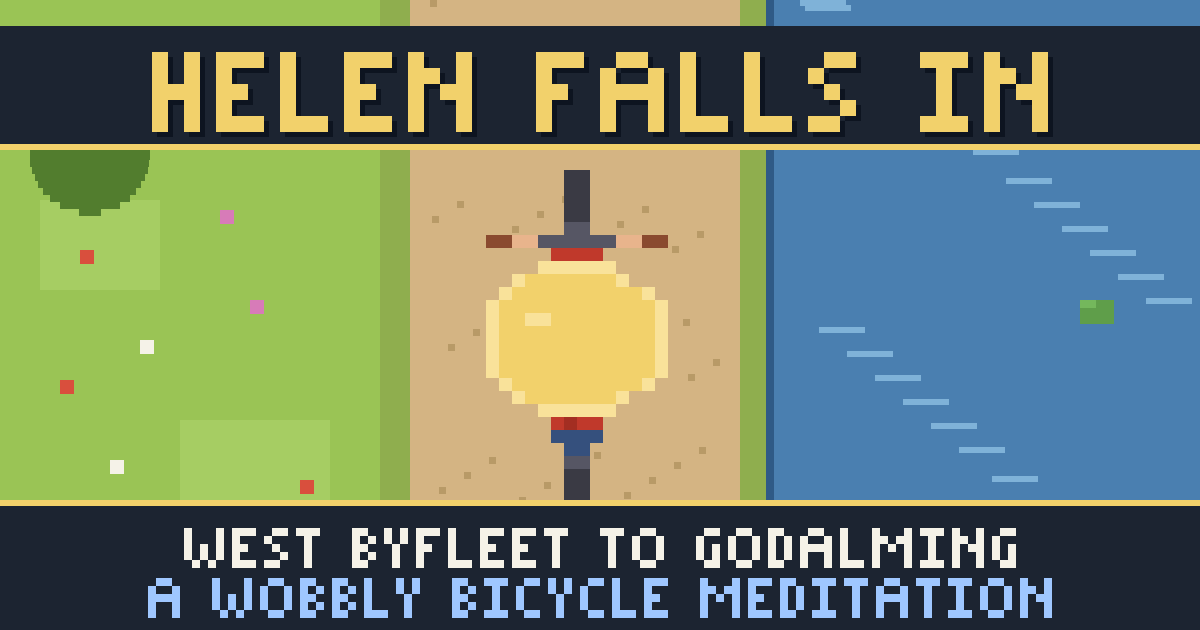
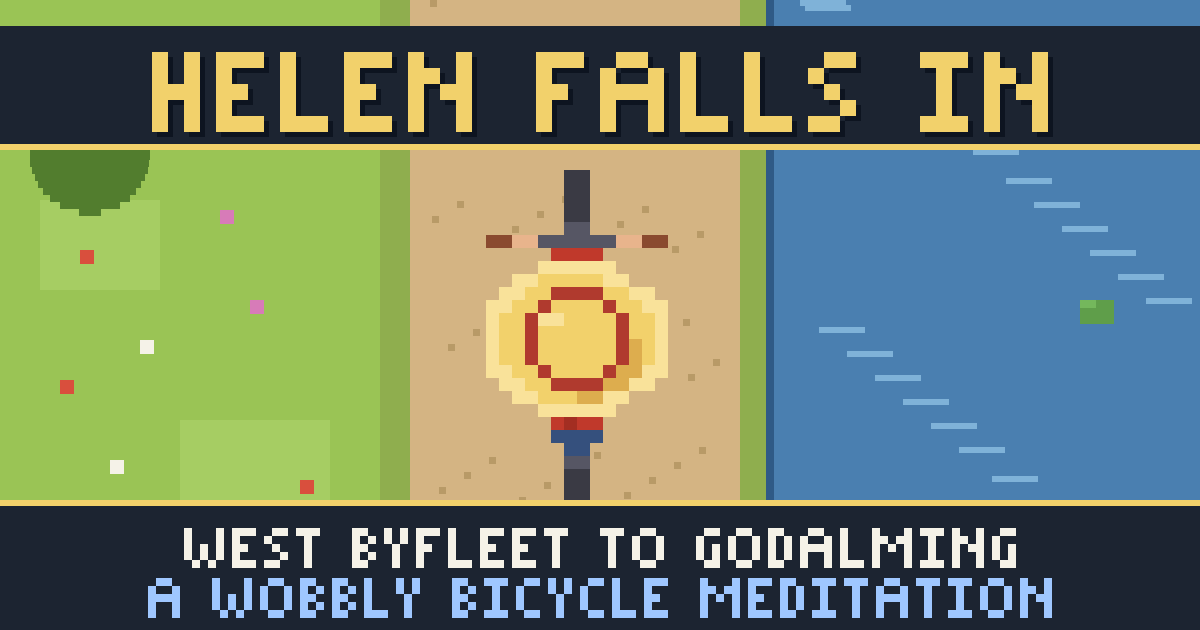
A sunhat that reads as a sunhat; one chunk build per frame
Top-down the hat was a plain yellow disc. Now: light brim edge, red
ribbon ring where the crown rises, crown shadow on the sun-away side —
in-game, in the falling cutscene, and across the generated art.

Profiled on Android: the chunk builder could run two 3-11ms builds in a
single frame and blow the 60fps budget. Off-screen prefetch now builds
at most one chunk per frame; on-screen chunks still build unconditionally
so holes can never appear.

Changed region(s): [[0.4008, 0.4222, 0.555, 0.6635]]

diff --git a/src/render.ts b/src/render.ts
@@ -65,7 +65,8 @@ const PAL = {
 };
 
 // Helen, top-down, on a bike that reads as a bike: thin wheels, a visible
-// frame, wide handlebars — and a round sunhat (slightly smaller these days).
+// frame, wide handlebars — and a round sunhat: light brim edge, red ribbon
+// ring where the crown rises, crown shadow on the brim's sun-away side.
 const HELEN_PX: Record<string, number> = {
   T: 0x3a3a44, // tyre
   H: 0x565664, // frame metal
@@ -73,8 +74,10 @@ const HELEN_PX: Record<string, number> = {
   s: 0xe8b48c, // skin
   r: 0xc0392b, // red top
   R: 0xa32e22, // red top, shaded
-  y: 0xf2d16b, // sunhat crown
-  Y: 0xf9e29a, // sunhat brim/highlight
+  y: 0xf2d16b, // sunhat straw
+  Y: 0xf9e29a, // sunhat brim edge / sun-catch
+  u: 0xddad4e, // sunhat straw in shade (crown shadow on the brim)
+  n: 0xb03a2e, // hatband ribbon
   b: 0x35507d, // shorts
 };
 // Authored at final resolution (1px cells, drawn at scale 1) — rotating chunky
@@ -88,16 +91,16 @@ const HELEN_MAP = [
   '..BBssHHHHHHssBB..',
   '.......rrrr.......',
   '......YYYYYY......',
-  '....YyyyyyyyY....'.padEnd(18, '.'),
-  '...YyyyyyyyyyyY...',
-  '..YyyyyyyyyyyyyY..',
-  '..YyyYYyyyyyyyyY..',
-  '..YyyyyyyyyyyyyY..',
-  '..YyyyyyyyyyyyyY..',
-  '..YyyyyyyyyyyyyY..',
-  '..YyyyyyyyyyyyyY..',
-  '...YyyyyyyyyyyY...',
-  '....YyyyyyyyY....'.padEnd(18, '.'),
+  '....YYyyyyyYY.....',
+  '...YYyynnnnyyYY...',
+  '..YYyynyyyynyyYY..',
+  '..YyynYYyyyynyyY..',
+  '..YyynyyyyyynyyY..',
+  '..YyynyyyyyynuyY..',
+  '..YyynyyyyyynuyY..',
+  '..YYyynyyyynuuYY..',
+  '...YYyynnnnuuYY...',
+  '....YYyyyuuYY.....',
   '......YYYYYY......',
   '.......rRrr.......',
   '.......bbbb.......',
@@ -123,7 +126,7 @@ function paintSprite(g: Graphics, map: string[], px: Record<string, number>, ox:
 }
 
 // the sunhat chars — their own layer, so aftermath tinting never touches the hat
-const HAT_CHARS = new Set(['y', 'Y']);
+const HAT_CHARS = new Set(['y', 'Y', 'u', 'n']);
 const HELEN_BODY_PX = Object.fromEntries(Object.entries(HELEN_PX).filter(([k]) => !HAT_CHARS.has(k)));
 const HELEN_HAT_PX = Object.fromEntries(Object.entries(HELEN_PX).filter(([k]) => HAT_CHARS.has(k)));
 
@@ -1375,6 +1378,8 @@ export async function createRenderer(mount: HTMLElement): Promise<Renderer> {
     const hatY = Math.min(viewH - 26, by + 60 + e * 30);
     screenG.rect(cx + 26, hatY, 30, 3).fill(0xf9e29a);
     screenG.rect(cx + 32, hatY - 5, 18, 5).fill(0xf2d16b);
+    screenG.rect(cx + 34, hatY - 7, 14, 2).fill(0xf2d16b);
+    screenG.rect(cx + 32, hatY - 2, 18, 2).fill(0xb03a2e);
     for (let k = 0; k < 5; k++) {
       const ly = (e * 16 + k * 37) % (viewH + 10);
       const lx = cx - 50 + k * 24 + Math.sin(e * 1.2 + k * 2) * 8;
@@ -1432,6 +1437,8 @@ export async function createRenderer(mount: HTMLElement): Promise<Renderer> {
     }
   }
 
+  const pf = { frames: 0, slow: 0, builds: 0, worst: 0, worstBuild: 0, worstDyn: 0, lastLog: 0 };
+
   function draw(
     prev: SimState,
     curr: SimState,
@@ -1466,15 +1473,20 @@ export async function createRenderer(mount: HTMLElement): Promise<Renderer> {
     helenWX = hp.x;
     helenWY = hp.y;
 
-    // ensure chunks around the camera exist (path distance window), building at
-    // most a couple per frame so scrolling never hitches on a build burst
+    // ensure chunks around the camera exist (path distance window). On-screen
+    // chunks build unconditionally (a hole is worse than a hitch); the ahead/
+    // behind prefetch ring builds at most ONE per frame — a single build is
+    // ~3-11ms on a phone-class CPU, so two in one frame blows the 60fps budget.
     const loIdx = Math.floor((d - 460) / CHUNK_PX);
     const hiIdx = Math.floor((d + 520) / CHUNK_PX);
+    const visLoIdx = Math.floor((d - 210) / CHUNK_PX);
+    const visHiIdx = Math.floor((d + 160) / CHUNK_PX);
     const nearIdx = Math.floor(d / CHUNK_PX);
     let built = 0;
     for (let span = 0; span <= Math.max(nearIdx - loIdx, hiIdx - nearIdx); span++) {
       for (const idx of span === 0 ? [nearIdx] : [nearIdx + span, nearIdx - span]) {
-        if (idx < loIdx || idx > hiIdx || chunks.has(idx) || built >= 2) continue;
+        if (idx < loIdx || idx > hiIdx || chunks.has(idx)) continue;
+        if (built >= 1 && (idx < visLoIdx || idx > visHiIdx)) continue;
         const g = buildChunk(idx, p, path);
         chunks.set(idx, g);
         worldLayer.addChildAt(g, 0);
@@ -1541,6 +1553,7 @@ export async function createRenderer(mount: HTMLElement): Promise<Renderer> {
     } else {
       bike.tint = 0xffffff;
     }
+
   }
 
   return { app, draw };

diff --git a/scripts/genart.ts b/scripts/genart.ts
@@ -104,6 +104,8 @@ const SPRITE_PX: Record<string, RGB> = {
   R: hex(0xa32e22),
   y: hex(0xf2d16b),
   Y: hex(0xf9e29a),
+  u: hex(0xddad4e),
+  n: hex(0xb03a2e),
   b: hex(0x35507d),
 };
 const HELEN_MAP = [
@@ -115,16 +117,16 @@ const HELEN_MAP = [
   '..BBssHHHHHHssBB..',
   '.......rrrr.......',
   '......YYYYYY......',
-  '....YyyyyyyyY.....',
-  '...YyyyyyyyyyyY...',
-  '..YyyyyyyyyyyyyY..',
-  '..YyyYYyyyyyyyyY..',
-  '..YyyyyyyyyyyyyY..',
-  '..YyyyyyyyyyyyyY..',
-  '..YyyyyyyyyyyyyY..',
-  '..YyyyyyyyyyyyyY..',
-  '...YyyyyyyyyyyY...',
-  '....YyyyyyyyY.....',
+  '....YYyyyyyYY.....',
+  '...YYyynnnnyyYY...',
+  '..YYyynyyyynyyYY..',
+  '..YyynYYyyyynyyY..',
+  '..YyynyyyyyynyyY..',
+  '..YyynyyyyyynuyY..',
+  '..YyynyyyyyynuyY..',
+  '..YYyynyyyynuuYY..',
+  '...YYyynnnnuuYY...',
+  '....YYyyyuuYY.....',
   '......YYYYYY......',
   '.......rRrr.......',
   '.......bbbb.......',
@@ -325,8 +327,82 @@ function writeOgImage(path: string): void {
   writePng(path, 1200, 630, img.data);
 }
 
+// ---- Capacitor launcher-icon sources (assets/, consumed by @capacitor/assets) ----
+// Android adaptive icons mask to a centre region ~66% of the canvas; keep the
+// hat inside that safe zone, with water filling the bleed.
+function writeAdaptiveForeground(path: string, size: number): void {
+  const grid = iconGrid();
+  const img = new Img(size, size, P.water);
+  const inset = Math.round(size * 0.2);
+  const inner = size - inset * 2;
+  for (let y = 0; y < inner; y++) {
+    for (let x = 0; x < inner; x++) {
+      img.px(inset + x, inset + y, grid[Math.floor((y * 16) / inner)]![Math.floor((x * 16) / inner)]!);
+    }
+  }
+  writePng(path, size, size, img.data);
+}
+
 mkdirSync('public', { recursive: true });
 writeIconSvg('public/favicon.svg');
 writeIconPng('public/favicon-64.png', 64);
 writeIconPng('public/apple-touch-icon.png', 180);
 writeOgImage('public/og.png');
+
+// Play Store listing: 1024×500 feature graphic — the og scene, squeezed.
+function writeFeatureGraphic(path: string): void {
+  const img = new Img(1024, 500, P.verge);
+  img.rect(0, 0, 360, 500, P.verge);
+  img.rect(330, 0, 26, 500, P.fringe);
+  img.rect(356, 0, 290, 500, P.sand);
+  img.rect(646, 0, 22, 500, P.fringe);
+  img.rect(668, 0, 8, 500, P.bank);
+  img.rect(676, 0, 348, 500, P.water);
+  for (const [x, y, w, h] of [
+    [40, 160, 100, 80],
+    [150, 340, 130, 90],
+  ] as const) {
+    img.rect(x, y, w, h, P.meadow);
+  }
+  for (const [x, y, c] of [
+    [70, 200, P.red],
+    [200, 380, P.cream],
+    [120, 300, P.pink],
+    [260, 180, P.red],
+  ] as Array<[number, number, RGB]>) {
+    img.rect(x, y, 12, 12, c);
+  }
+  for (const [x, y, r] of [
+    [80, 90, 48],
+    [230, 450, 42],
+  ] as const) {
+    for (let dy = -r; dy <= r; dy += 6) {
+      const half = Math.sqrt(Math.max(0, r * r - dy * dy));
+      img.rect(x - half, y + dy, half * 2, 6, P.canopy);
+    }
+    img.rect(x - r * 0.5, y - r * 0.5, r * 0.6, r * 0.35, P.canopyLight);
+  }
+  for (let k = 0; k < 40; k++) img.rect(360 + ((k * 137) % 260), (k * 251) % 500, 6, 6, P.sandDark);
+  for (let k = 0; k < 20; k++) img.rect(700 + ((k * 173) % 290), (k * 149) % 490, 40, 6, P.ripple);
+  paintSprite(img, 420, 130, 10);
+  img.rect(0, 24, 1024, 96, P.night);
+  img.rect(0, 120, 1024, 5, P.gold);
+  const title = 'HELEN FALLS IN';
+  const ts = 12;
+  const tx = Math.round((1024 - textWidth(title, ts)) / 2);
+  paintText(img, title, tx + 4, 44 + 4, ts, hex(0x0d1420));
+  paintText(img, title, tx, 44, ts, P.gold);
+  img.rect(0, 400, 1024, 5, P.gold);
+  img.rect(0, 405, 1024, 95, P.night);
+  const sub = 'A WOBBLY BICYCLE MEDITATION';
+  const ss = 7;
+  paintText(img, sub, Math.round((1024 - textWidth(sub, ss)) / 2), 434, ss, P.cream);
+  writePng(path, 1024, 500, img.data);
+}
+
+mkdirSync('assets', { recursive: true });
+writeIconPng('assets/icon-only.png', 1024);
+writeAdaptiveForeground('assets/icon-foreground.png', 1024);
+writePng('assets/icon-background.png', 1024, 1024, new Img(1024, 1024, P.water).data);
+writeIconPng('assets/play-icon-512.png', 512);
+writeFeatureGraphic('assets/play-feature.png');
